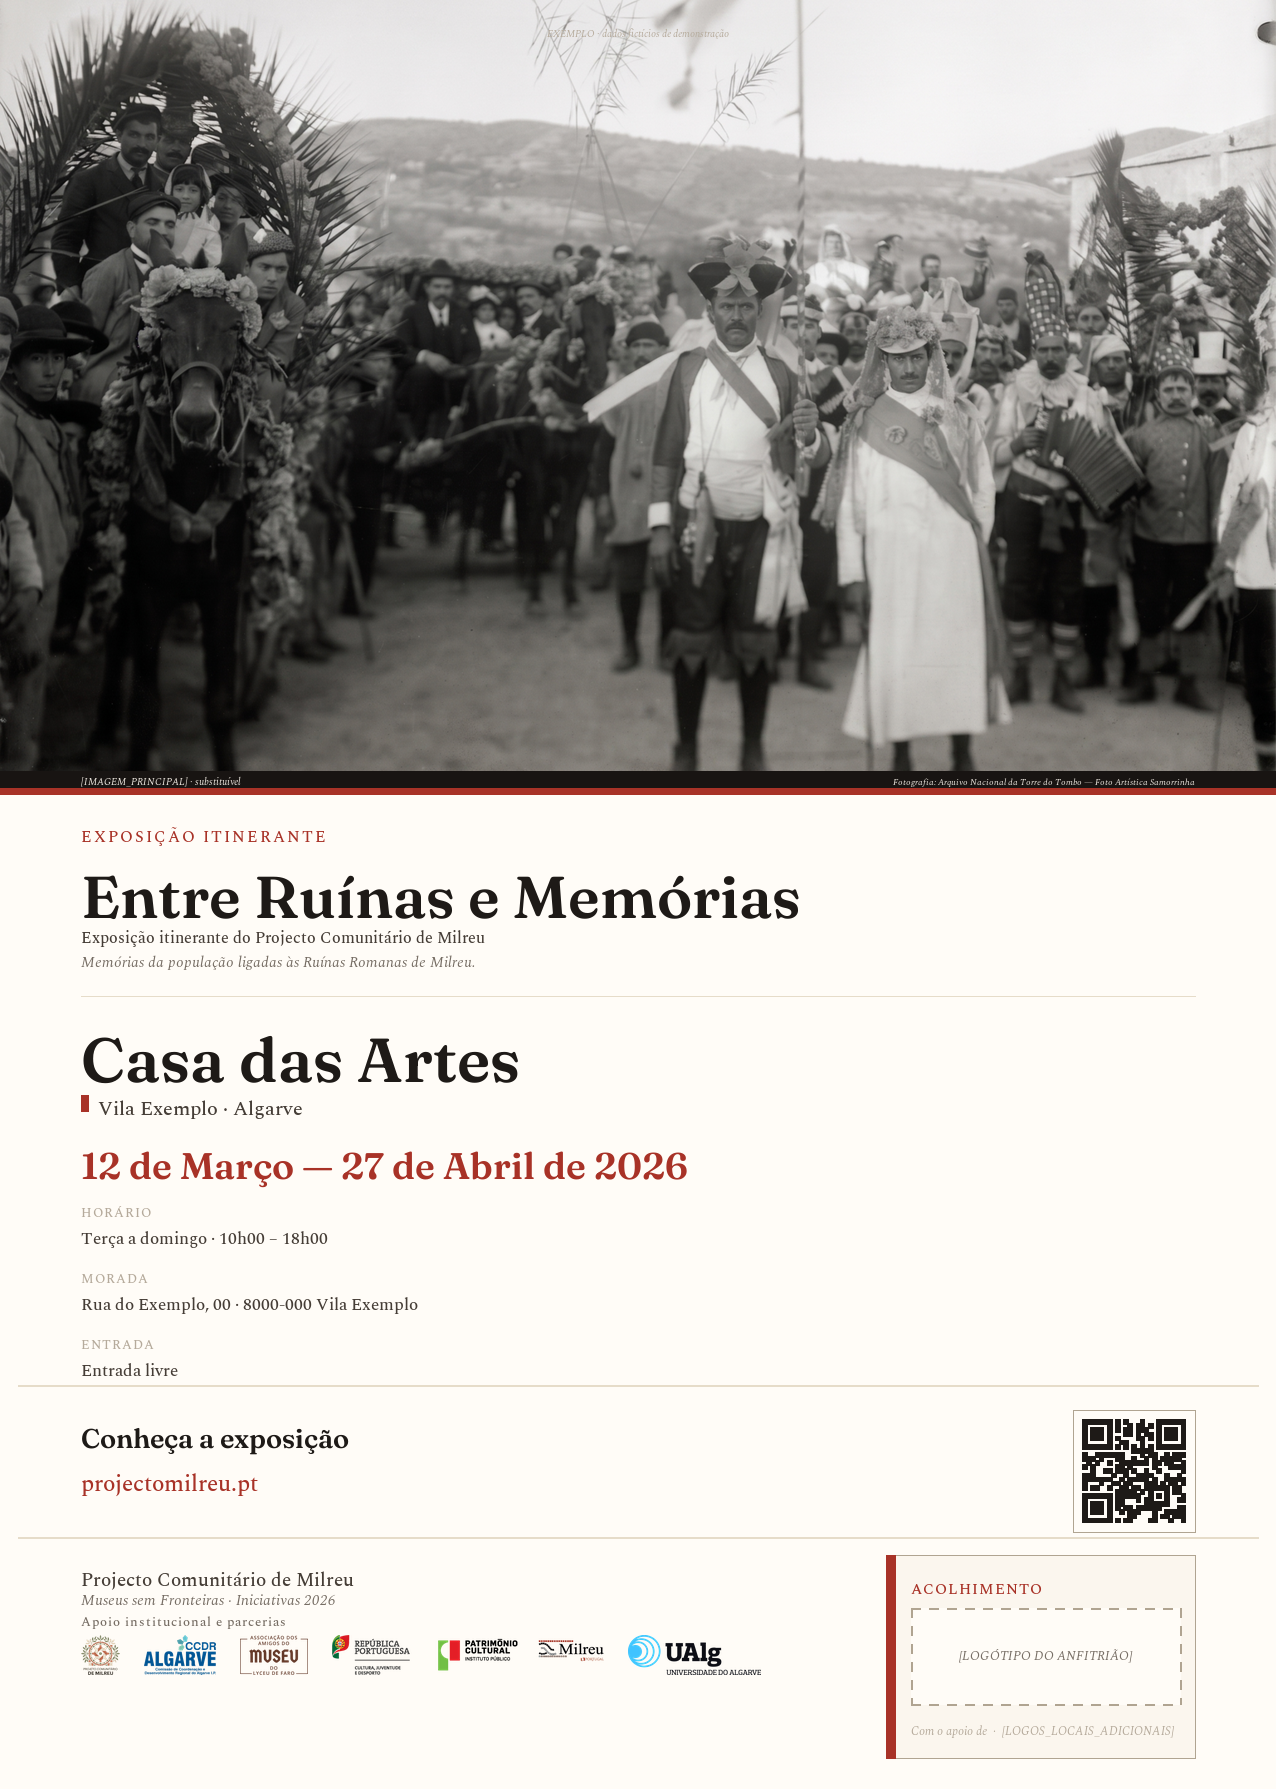
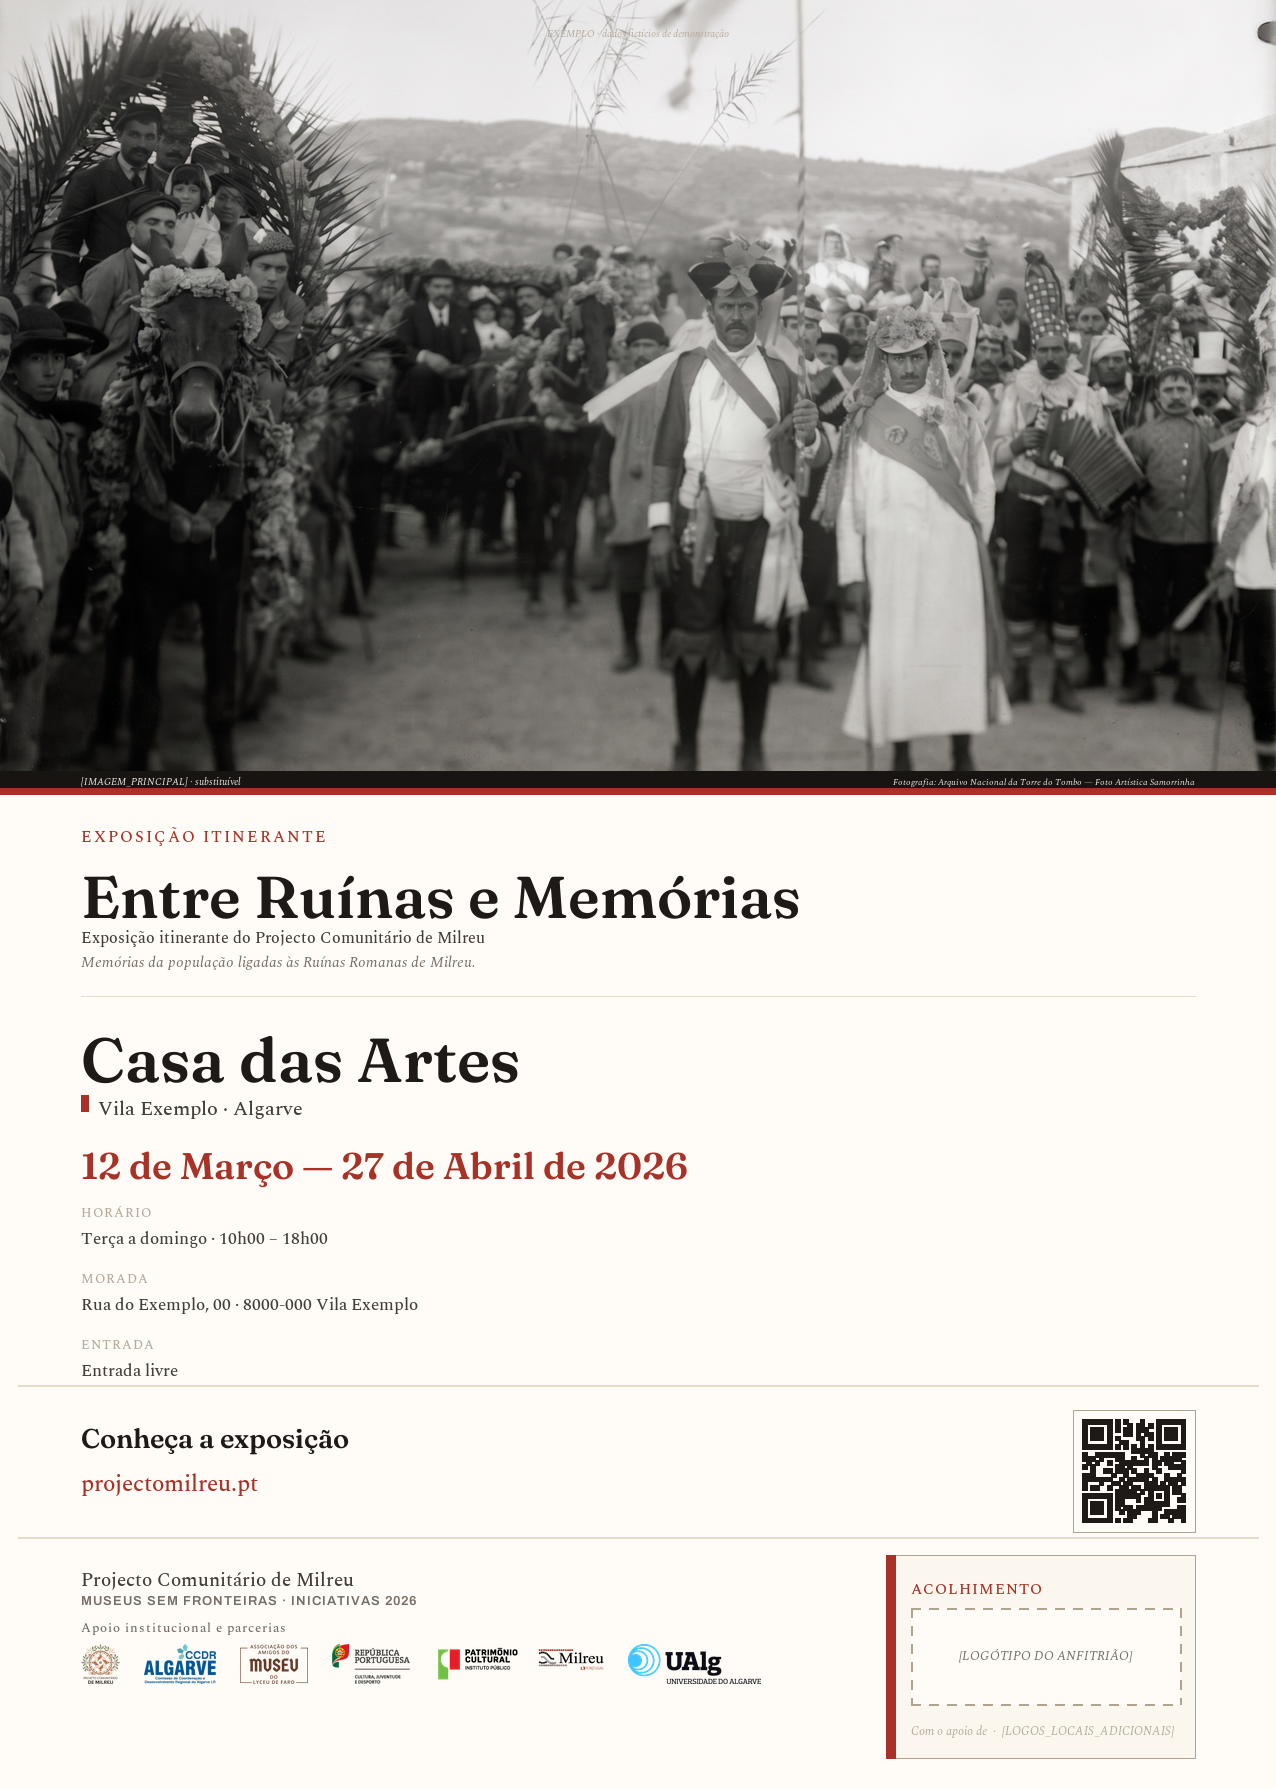
fix(item08): template cartaz — slot 2026 em Archivo maiusculas secundario + respiro (HUMAN SPACING GATE PASS)
Master/template STAND BY / TEMPLATE READY (sem cartaz de evento). Identificador
MUSEUS SEM FRONTEIRAS · INICIATIVAS 2026 em Archivo maiusculas, secundario, com
respiro no rodape; QR «Conheca» em bloco proprio. Gerador versionado + previews
de template (dados ficticios declarados). validate exit 0 · 641/641.

© 2026 Fernando Rodrigues de Jácomo. Produzido no âmbito do Projecto Comunitário de Milreu.

Changed region(s): [[0.0611, 0.8916, 0.3973, 0.953], [0.4279, 0.8916, 0.5807, 0.953]]

diff --git a/docs/dissemination/cartaz-local/master/cartaz_local_generator.py b/docs/dissemination/cartaz-local/master/cartaz_local_generator.py
@@ -19,7 +19,7 @@ QURL="https://projectomilreu.pt"
 MARF=(255,252,247); CAMPO=(251,246,238); CAMPO2=(244,236,221); INK=(30,26,23); INK7=(69,61,54); INK5=(118,109,100); INK3=(181,170,155)
 RED=(168,50,39); KEY=(176,164,145); HAIR=(230,220,201); BROWN=(98,70,45)
 FP=os.path.expanduser("~/Library/Fonts/")
-FF={"d":"Fraunces.ttf","di":"Fraunces-Italic.ttf","s":"Spectral-Regular.ttf","sm":"Spectral-Medium.ttf","si":"Spectral-Italic.ttf"}
+FF={"d":"Fraunces.ttf","di":"Fraunces-Italic.ttf","s":"Spectral-Regular.ttf","sm":"Spectral-Medium.ttf","si":"Spectral-Italic.ttf","u":"Archivo.ttf"}
 _fc={}
 def font(k,px,wt=None):
     kk=(k,px,wt)
@@ -165,9 +165,9 @@ def render(TW,TH,fields,outname,demo=True,img=IMG_PRINCIPAL,final=False):
     f.rect(bl,z4,Wp-2*bl,P(0.3*s),HAIR)
     # Bloco A — Projecto + parcerias institucionais (à esquerda)
     f.text(mx,z4+P(5.5*sf),"Projecto Comunitário de Milreu","sm",ptf(10.5),INK7,"l",wt=600)
-    f.text(mx,z4+P(10.2*sf),"Museus sem Fronteiras · Iniciativas 2026","si",ptf(8.5),INK5,"l")
-    f.text(mx,z4+P(14.8*sf),"Apoio institucional e parcerias","sm",ptf(7.2),INK5,"l",wt=500,ls=ptf(0.3))
-    bh=P(7.8*sf); f.logoband(mx,z4+P(19.3*sf),bh)
+    f.text(mx,z4+P(11.0*sf),"MUSEUS SEM FRONTEIRAS · INICIATIVAS 2026","u",ptf(7.0),INK5,"l",ls=ptf(0.5))
+    f.text(mx,z4+P(16.0*sf),"Apoio institucional e parcerias","sm",ptf(7.2),INK5,"l",wt=500,ls=ptf(0.3))
+    bh=P(7.8*sf); f.logoband(mx,z4+P(21.0*sf),bh)
     # Bloco C — Acolhimento (à direita), com PAINEL próprio para dar presença e separação
     hostw=P(56*sf); hx=Wp-mx-hostw; py=z4+P(3.5*sf); pbot=Hp-bl-P(3*s)
     f.rect(hx-P(5*sf),py,hostw+P(5*sf),pbot-py,CAMPO,outline=KEY,ow=max(1,round(1*sf)))
